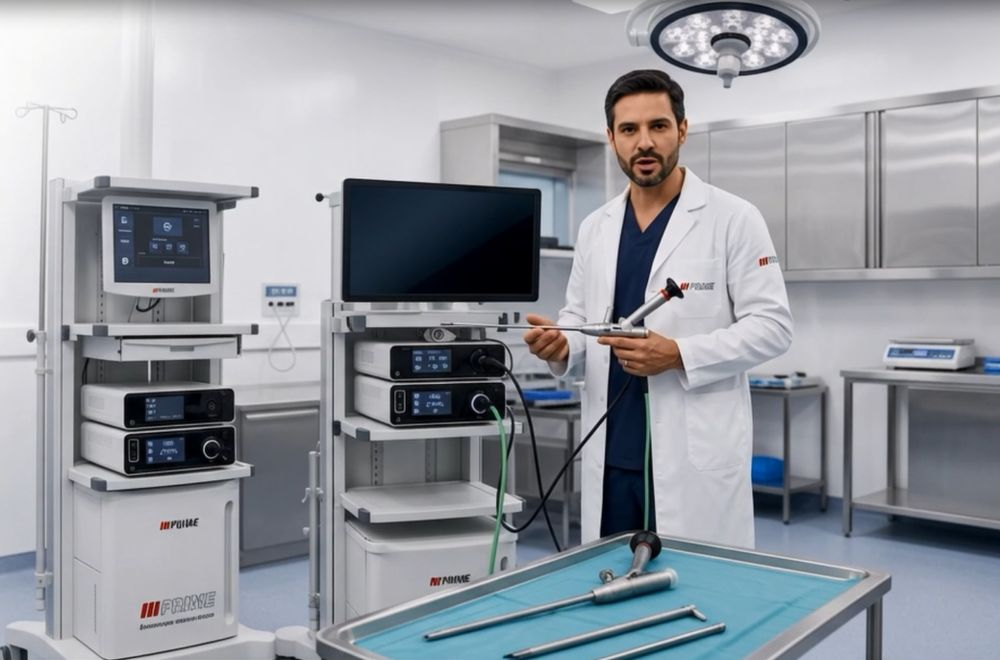
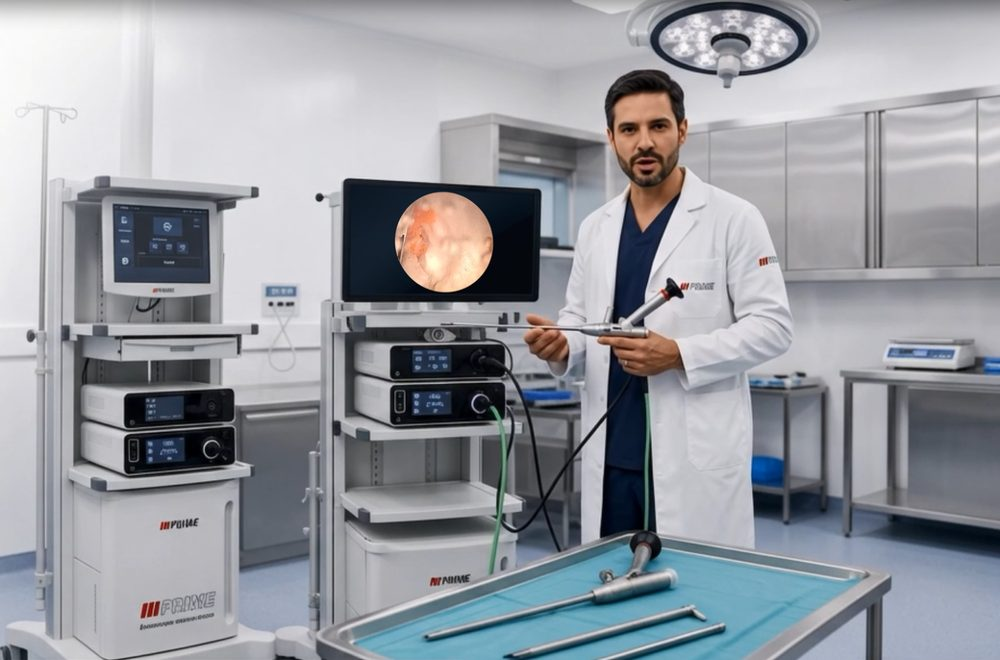
up

Changed region(s): [[0.372, 0.2727, 0.496, 0.4545]]

diff --git a/index.html b/index.html
@@ -433,9 +433,9 @@ footer a{color:var(--on-black)}
     <div class="faq">
       <details open><summary>Quais reparos vocês fazem?</summary><p>Troca de tubo, troca de objetiva, lapidação da fibra de luz, lapidação da distal, troca da eyepiece, substituição da window proximal e substituição de lentes.</p></details>
       <details><summary>As lentes são originais?</summary><p>Sim. Usamos lentes originais compatíveis com os principais fabricantes europeus.</p></details>
-      <details><summary>Como peço um orçamento?</summary><p>Preencha o formulário abaixo, que monta a mensagem para o WhatsApp, ou fale direto pelo telefone (16) 99223-7907 ou pelo e-mail primevideocirurgia@outlook.com.</p></details>
+      <details><summary>Como peço um orçamento?</summary><p>Preencha o formulário abaixo, que monta a mensagem para o WhatsApp, ou fale direto pelo telefone +55 (16) 99223-7907 ou pelo e-mail primevideocirurgia@outlook.com.</p></details>
       <details><summary>Vocês fazem consultoria técnica?</summary><p>Sim. A consultoria é sob consulta. Escolha "Consultoria técnica" no formulário de orçamento.</p></details>
-      <details><summary>Onde vocês ficam?</summary><p>Rua Odila Rosa Silva Vianna, 615, Bonfim Paulista / Jardim João Pontin, Ribeirão Preto/SP, CEP 14110-000.</p></details>
+      <details><summary>Onde vocês ficam?</summary><p>Rua Odila Rosa Silva Vianna, 615, Bonfim Paulista / Jardim João Pontin, Ribeirão Preto - SP / Brasil, CEP 14110-000.</p></details>
     </div>
   </div>
 </section>
@@ -447,9 +447,9 @@ footer a{color:var(--on-black)}
       <h2 class="sec-title">Peça seu orçamento</h2>
       <p class="sec-lead">Conte qual serviço você precisa e o modelo do equipamento. Montamos a mensagem e você envia pelo WhatsApp.</p>
       <div class="contact">
-        <div><b>Telefone e WhatsApp</b><span class="sel">(16) 99223-7907</span></div>
+        <div><b>Telefone e WhatsApp</b><span class="sel">+55 (16) 99223-7907</span></div>
         <div><b>E-mail</b><span class="sel">primevideocirurgia@outlook.com</span></div>
-        <div><b>Endereço</b>Rua Odila Rosa Silva Vianna, 615<br>Bonfim Paulista / Jardim João Pontin<br>Ribeirão Preto/SP, CEP 14110-000</div>
+        <div><b>Endereço</b>Rua Odila Rosa Silva Vianna, 615<br>Bonfim Paulista / Jardim João Pontin<br>Ribeirão Preto - SP / Brasil<br>CEP 14110-000</div>
         <div><b>Instagram</b><a href="https://www.instagram.com/primeprecisionrp/" target="_blank" rel="noopener">@primeprecisionrp</a></div>
       </div>
     </div>
@@ -476,14 +476,14 @@ footer a{color:var(--on-black)}
       <label for="f-nome">Seu nome
         <input id="f-nome" type="text" autocomplete="name">
       </label>
-      <button class="btn" type="submit">Montar mensagem</button>
+      <button class="btn" type="submit">Enviar pelo WhatsApp</button>
       <div class="out" id="out" aria-live="polite">
         <pre id="out-text"></pre>
         <div class="acts">
           <a class="btn sm" id="wa" href="#" target="_blank" rel="noopener">Abrir no WhatsApp</a>
           <button class="btn sm ghost" id="copy" type="button">Copiar mensagem</button>
         </div>
-        <small>Se o WhatsApp não abrir, copie a mensagem e envie para (16) 99223-7907.</small>
+        <small>Se o WhatsApp não abrir, copie a mensagem e envie para +55 (16) 99223-7907.</small>
       </div>
     </form>
   </div>
@@ -492,7 +492,7 @@ footer a{color:var(--on-black)}
 
 <footer class="band">
   <div class="inner">
-    <span>Prime Instrumentos de Precisão · Ribeirão Preto/SP</span>
+    <span>Prime Instrumentos de Precisão · Ribeirão Preto - SP / Brasil</span>
     <a href="https://www.instagram.com/primeprecisionrp/" target="_blank" rel="noopener">Instagram @primeprecisionrp</a>
   </div>
 </footer>
@@ -594,10 +594,13 @@ footer a{color:var(--on-black)}
     ["As lentes são originais?","Are the lenses original?","Sind die Linsen original?"],
     ["Sim. Usamos lentes originais compatíveis com os principais fabricantes europeus.","Yes. We use original lenses compatible with the main European manufacturers.","Ja. Wir verwenden Originallinsen, die mit den wichtigsten europäischen Herstellern kompatibel sind."],
     ["Como peço um orçamento?","How do I request a quote?","Wie fordere ich ein Angebot an?"],
-    ["Preencha o formulário abaixo, que monta a mensagem para o WhatsApp, ou fale direto pelo telefone (16) 99223-7907 ou pelo e-mail primevideocirurgia@outlook.com.","Fill in the form below, which builds the WhatsApp message, or contact us directly by phone at (16) 99223-7907 or by e-mail at primevideocirurgia@outlook.com.","Füllen Sie das Formular unten aus, das die WhatsApp-Nachricht erstellt, oder kontaktieren Sie uns direkt per Telefon unter (16) 99223-7907 oder per E-Mail an primevideocirurgia@outlook.com."],
+    ["Preencha o formulário abaixo, que monta a mensagem para o WhatsApp, ou fale direto pelo telefone +55 (16) 99223-7907 ou pelo e-mail primevideocirurgia@outlook.com.","Fill in the form below, which builds the WhatsApp message, or contact us directly by phone at +55 (16) 99223-7907 or by e-mail at primevideocirurgia@outlook.com.","Füllen Sie das Formular unten aus, das die WhatsApp-Nachricht erstellt, oder kontaktieren Sie uns direkt per Telefon unter +55 (16) 99223-7907 oder per E-Mail an primevideocirurgia@outlook.com."],
     ["Vocês fazem consultoria técnica?","Do you offer technical consulting?","Bieten Sie technische Beratung an?"],
     ["Sim. A consultoria é sob consulta. Escolha \"Consultoria técnica\" no formulário de orçamento.","Yes. Consulting is available on request. Choose \"Technical consulting\" in the quote form.","Ja. Die Beratung erfolgt auf Anfrage. Wählen Sie im Angebotsformular \"Technische Beratung\"."],
     ["Onde vocês ficam?","Where are you located?","Wo befinden Sie sich?"],
+    ["Ribeirão Preto - SP / Brasil","Ribeirão Preto - SP / Brazil","Ribeirão Preto - SP / Brasilien"],
+    ["Rua Odila Rosa Silva Vianna, 615, Bonfim Paulista / Jardim João Pontin, Ribeirão Preto - SP / Brasil, CEP 14110-000.","Rua Odila Rosa Silva Vianna, 615, Bonfim Paulista / Jardim João Pontin, Ribeirão Preto - SP / Brazil, CEP 14110-000.","Rua Odila Rosa Silva Vianna, 615, Bonfim Paulista / Jardim João Pontin, Ribeirão Preto - SP / Brasilien, CEP 14110-000."],
+    ["Prime Instrumentos de Precisão · Ribeirão Preto - SP / Brasil","Prime Instrumentos de Precisão · Ribeirão Preto - SP / Brazil","Prime Instrumentos de Precisão · Ribeirão Preto - SP / Brasilien"],
     ["Peça seu orçamento","Request your quote","Fordern Sie Ihr Angebot an"],
     ["Conte qual serviço você precisa e o modelo do equipamento. Montamos a mensagem e você envia pelo WhatsApp.","Tell us which service you need and your equipment model. We build the message and you send it via WhatsApp.","Nennen Sie uns die gewünschte Leistung und das Gerätemodell. Wir erstellen die Nachricht, und Sie senden sie über WhatsApp."],
     ["Telefone e WhatsApp","Phone and WhatsApp","Telefon und WhatsApp"],
@@ -611,10 +614,10 @@ footer a{color:var(--on-black)}
     ["Ex.: imagem escura, tubo amassado, lente quebrada","E.g. dark image, dented tube, broken lens","z. B. dunkles Bild, verbeultes Rohr, zerbrochene Linse"],
     ["Troca de objetiva","Objective replacement","Objektivtausch"],
     ["Lapidação da distal","Distal tip polishing","Schliff des distalen Endes"],
-    ["Montar mensagem","Build message","Nachricht erstellen"],
+    ["Enviar pelo WhatsApp","Send via WhatsApp","Über WhatsApp senden"],
     ["Abrir no WhatsApp","Open in WhatsApp","In WhatsApp öffnen"],
     ["Copiar mensagem","Copy message","Nachricht kopieren"],
-    ["Se o WhatsApp não abrir, copie a mensagem e envie para (16) 99223-7907.","If WhatsApp does not open, copy the message and send it to (16) 99223-7907.","Falls sich WhatsApp nicht öffnet, kopieren Sie die Nachricht und senden Sie sie an (16) 99223-7907."],
+    ["Se o WhatsApp não abrir, copie a mensagem e envie para +55 (16) 99223-7907.","If WhatsApp does not open, copy the message and send it to +55 (16) 99223-7907.","Falls sich WhatsApp nicht öffnet, kopieren Sie die Nachricht und senden Sie sie an +55 (16) 99223-7907."],
     ["Falar no WhatsApp","Chat on WhatsApp","Per WhatsApp schreiben"]
   ];
   var maps={en:{},de:{}};
@@ -732,6 +735,10 @@ footer a{color:var(--on-black)}
     txt.textContent=msg;
     wa.href="https://wa.me/5516992237907?text="+encodeURIComponent(msg);
     out.classList.add("show");
+    var w=null;
+    try{w=window.open(wa.href,"_blank")}catch(err){}
+    if(w){try{w.opener=null}catch(err){}}
+    else out.scrollIntoView({behavior:"smooth",block:"nearest"});
   });
   copyBtn.addEventListener("click",function(){
     var nd=copyBtn.firstChild,msg=txt.textContent;
@@ -768,6 +775,28 @@ footer a{color:var(--on-black)}
     else{var nl=(navigator.language||"pt").slice(0,2).toLowerCase();if(nl==="en"||nl==="de")start=nl}
   }catch(e){}
   apply(start);
+
+  /* mantém o topo com a mesma altura nos três idiomas */
+  function equalize(){
+    var cur=lang;
+    [{el:h1,html:true},{el:document.querySelector(".hero-copy .tech")},{el:document.querySelector(".hero-copy .lead")}].forEach(function(o){
+      var tn=null;
+      if(!o.html){tn=textNodes.filter(function(x){return x.n.parentNode===o.el})[0];if(!tn)return}
+      o.el.style.minHeight="";
+      var max=0;
+      ["pt","en","de"].forEach(function(l){
+        if(o.html)o.el.innerHTML=H1[l];
+        else tn.n.nodeValue=tn.pre+(l==="pt"?tn.pt:maps[l][tn.pt])+tn.post;
+        max=Math.max(max,o.el.offsetHeight);
+      });
+      if(o.html)o.el.innerHTML=H1[cur];
+      else tn.n.nodeValue=tn.pre+tr(tn.pt)+tn.post;
+      o.el.style.minHeight=max+"px";
+    });
+  }
+  equalize();
+  if(document.fonts&&document.fonts.ready)document.fonts.ready.then(equalize);
+  var rz;window.addEventListener("resize",function(){clearTimeout(rz);rz=setTimeout(equalize,150)});
 })();
 </script>
 
